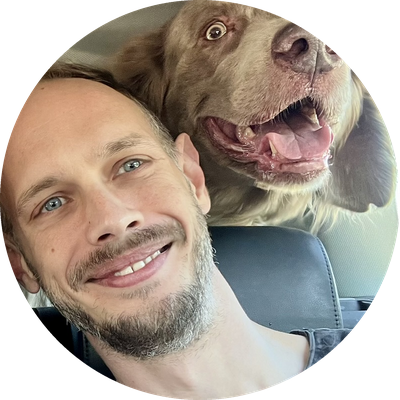
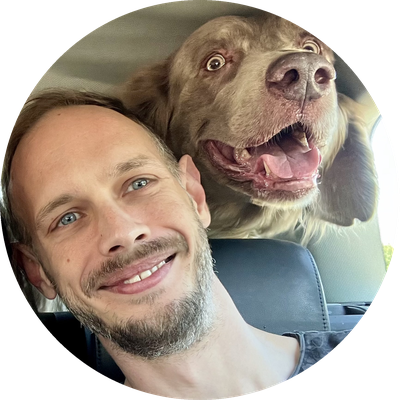
Center profile photo above heading, recrop photo

diff --git a/README.md b/README.md
@@ -1,6 +1,8 @@
-<img src="profile.png" alt="Ondrej with his dog Darwin" width="160" align="right">
+<p align="center">
+  <img src="profile.png" alt="Ondrej with his dog Darwin" width="160">
+</p>
 
-# Hi, I'm Ondrej 👋
+<h1 align="center">Hi, I'm Ondrej 👋</h1>
 
 I help businesses get the most out of their Apple devices. For more than 15 years I have worked with Macs, iPhones and iPads at work, from small offices with a handful of devices to enterprise and banking fleets with thousands.
 
